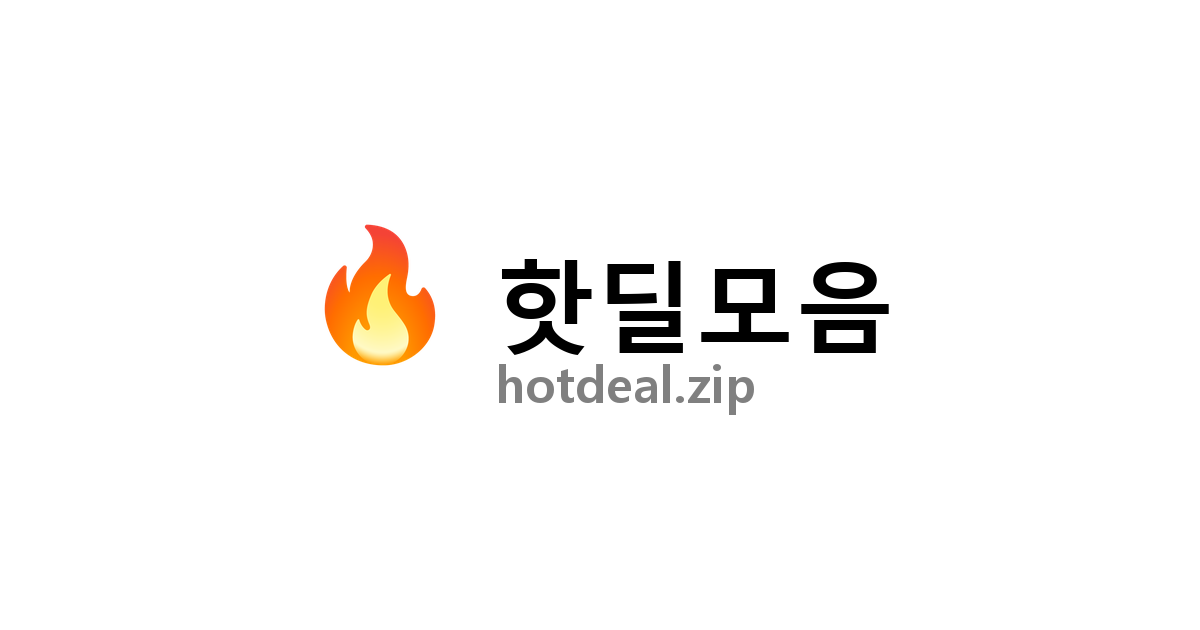
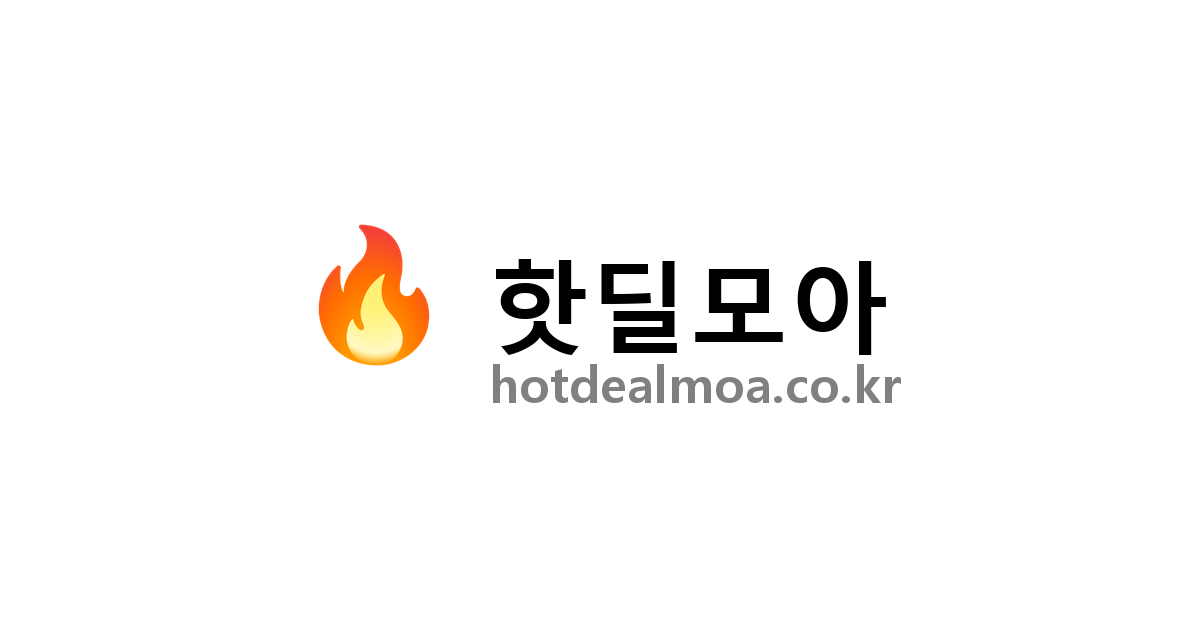
Rebrand to HotdealMoa for domain launch

Changed region(s): [[0.4008, 0.3921, 0.7708, 0.6635], [0.2467, 0.3619, 0.37, 0.573]]

diff --git a/index.html b/index.html
@@ -4,11 +4,11 @@
 <head>
     <meta charset="UTF-8">
     <meta name="viewport" content="width=device-width, initial-scale=1.0">
-    <title>핫딜모음</title>
+    <title>핫딜모아</title>
     <meta name="description" content="모든 커뮤니티의 핫딜 정보를 한눈에! 에펨코리아, 퀘이사존, 뽐뿌 등 최신 핫딜을 실시간으로 확인하세요.">
     <meta property="og:type" content="website">
     <meta property="og:url" content="https://hotdealmoa.co.kr/">
-    <meta property="og:title" content="핫딜모음">
+    <meta property="og:title" content="핫딜모아">
     <meta property="og:description" content="모든 커뮤니티의 핫딜 정보를 한눈에! 에펨코리아, 퀘이사존, 뽐뿌 등 최신 핫딜을 실시간으로 확인하세요.">
     <meta property="og:image" content="assets/og_image.png">
     <link rel="icon" type="image/png" href="assets/favicon.png">
@@ -34,7 +34,7 @@
             <div class="header-top">
                 <a href="index.html" class="logo-area" style="text-decoration:none;">
                     <span class="logo-icon">🔥</span>
-                    <span class="logo-text">핫딜모음</span>
+                    <span class="logo-text">핫딜모아</span>
                 </a>
                 <div class="search-bar-compact">
                     <input type="text" id="search-input" placeholder="검색" autocomplete="off">

diff --git a/generate_assets.py b/generate_assets.py
@@ -43,8 +43,8 @@ def create_og_image(emoji_img):
         font_medium = ImageFont.load_default()
 
     # Text
-    title = "핫딜모음"
-    subtitle = "hotdeal.zip"
+    title = "핫딜모아"
+    subtitle = "hotdealmoa.co.kr"
     
     # Measure text
     try:
